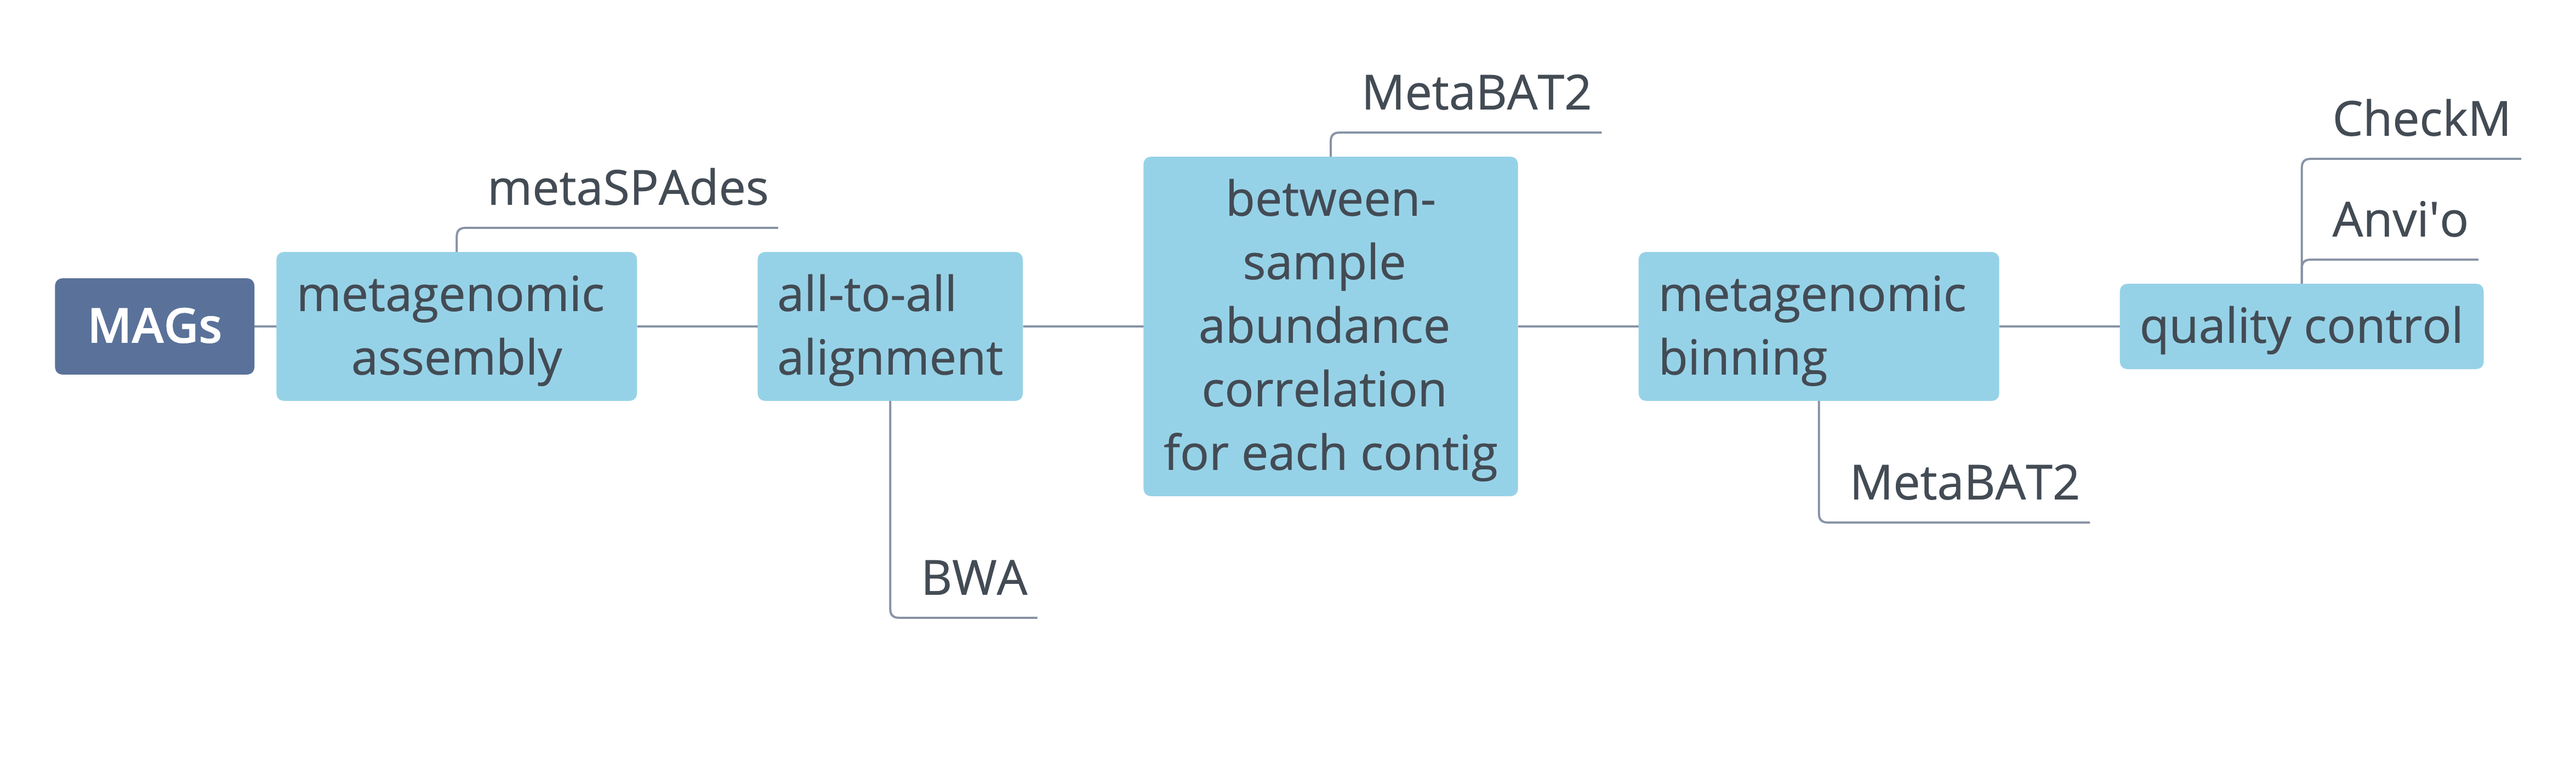
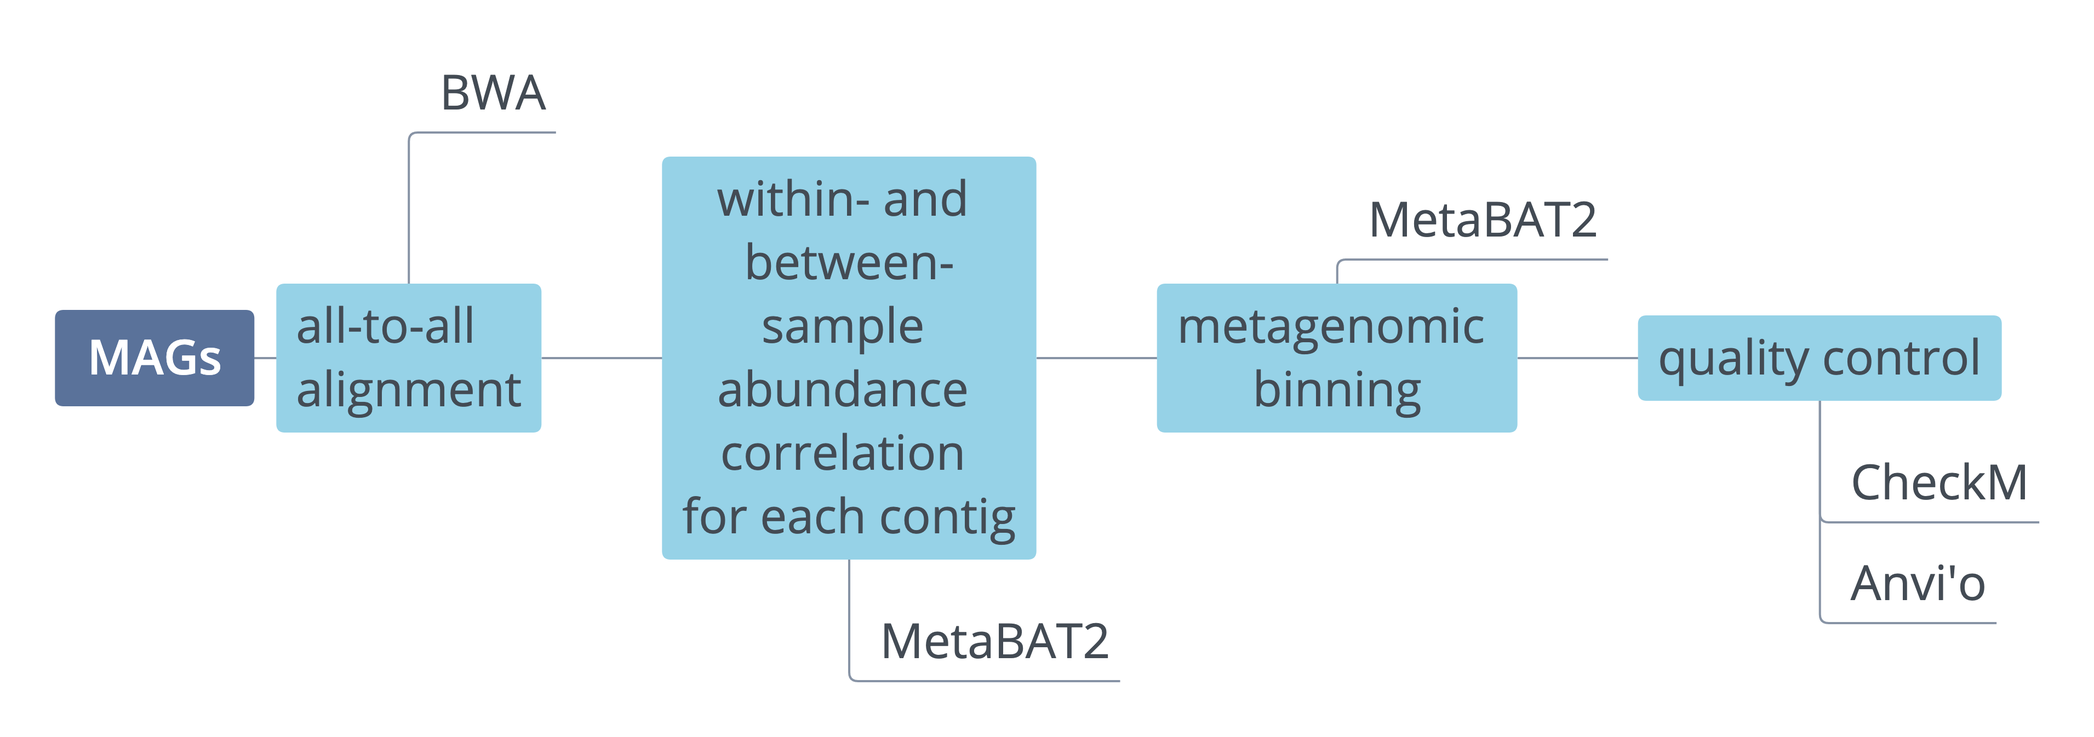
reorganizing metagenomic section

diff --git a/docs/assembly/metagenomic_workflows.rst b/docs/assembly/metagenomic_workflows.rst
@@ -2,34 +2,18 @@
 Metagenome Assembly
 ====================
 
-Technical advances in sequencing technologies in recent decades have allowed detailed investigation of complex microbial communities without the need for cultivation, which has proved to be challenging for many communities. Sequencing of microbial DNA extracted directly from enviromental or host-associated samples have provided key information on microbial community composition. These studies have also allowed gene-level characterization of microbiomes, as the first step to understanding the communities functional potential. Furthermore, algorithmic improvements as well as increased availability of computational resources make it now possible to reconstruct whole genomes from metagenomic samples (metagenome-assembled genomes, MAGs). Methods for microbial community composition are discussed in :doc:`../profiling/metagenomes`. Here we describe building :ref:`Gene Catalogs` and :ref:`MAGs` from metagenomic data.
+Technical advances in sequencing technologies in recent decades have allowed detailed investigation of complex microbial communities without the need for cultivation, which has proved to be challenging for many communities. Sequencing of microbial DNA extracted directly from enviromental or host-associated samples have provided key information on microbial community composition. These studies have also allowed gene-level characterization of microbiomes, as the first step to understanding the communities functional potential. Furthermore, algorithmic improvements as well as increased availability of computational resources make it now possible to reconstruct whole genomes from metagenomic samples (metagenome-assembled genomes, MAGs). Methods for microbial community composition are discussed in :doc:`../profiling/metagenomes`. Here we describe building :ref:`Metagenomic Assembly`, as well as building :ref:`Gene Catalogs` and :ref:`MAGs` from metagenomic data.
+
+--------------------
+Metagenomic Assembly
+--------------------
+
+.. image:: ../images/Metagenomic_Assembly_Overview.png
 
 
+1. **Preprocessing**. Before proceeding the the assembly, it is important to preprocess the raw sequencing data. Standard preprocessing protocols are described in :doc:`../preprocessing/preprocessing`. In addition to standard quality control and adapter trimming, we also suggest normalization with bbnorm.sh and merging (also add link in preprocessing)
 
---------------
-Gene Catalogs
---------------
-
-Gene catalog generation and profiling (i.e. gene abundance estimation) can provide important insights into the community's structure, diversity and functional potential. This analysis could also identify relationships between genetic composition and environmental factors, as well as disease associations.
-
-.. note:: Integrated catologs of reference genes have been generated for many ecosystems (<add link to ocean>, <add link to human gut>), and might be a good starting point for the analysis.
-
-
-Preprocessing
-^^^^^^^^^^^^^
-
-1. Before proceeding the the assembly, it is important to preprocess the raw sequencing data. Standard preprocessing protocols are described in :doc:`../preprocessing/preprocessing`
-2. In addition to standard quality control and adapter trimming, we also suggest normalization with bbnorm.sh and merging (also add link in preprocessing)
-
-Creation
-^^^^^^^^
-
-This protocol will allow you to create a denovo gene catalog from your metagenomic samples.
-
-.. image:: ../images/Building-gene-catalog.png
-
-
-3. Following data preprocessing, we use clean reads to perform a metagenomic assembly using **metaSPAdes**. metaSPAdes is part of SPAdes_ assembly toolkit. assembly. ,
+2. **Metagenomic Assembly**. Following data preprocessing, we use clean reads to perform a metagenomic assembly using **metaSPAdes**. metaSPAdes is part of SPAdes_ assembly toolkit. assembly. Following the assembly, we generate some assembly statistics using **assembly-stats**, and filter out contigs that are < 1 kbp in length.
 
 .. _SPAdes: https://github.com/ablab/spades
 
@@ -46,10 +30,26 @@ This protocol will allow you to create a denovo gene catalog from your metagenom
     You can use multiple threads (16-32) to speed up the assembly
 
 
-4. Following the assembly, we generate some assembly statistics using **assembly-stats**, and filter out contigs that are < 1 kbp in length.
+3. The metagenomic contigs generated in step 2 can now be used to build and/or profile :ref:`Gene Catalogs` or to construct :ref:`MAGs`.
+
+--------------
+Gene Catalogs
+--------------
+
+Gene catalog generation and profiling (i.e. gene abundance estimation) can provide important insights into the community's structure, diversity and functional potential. This analysis could also identify relationships between genetic composition and environmental factors, as well as disease associations.
+
+.. note:: Integrated catologs of reference genes have been generated for many ecosystems (<add link to ocean>, <add link to human gut>), and might be a good starting point for the analysis.
 
 
-5. Gene calling. We use **prodigal** to extract protein-coding genes from metagenomic assemblies (usually use **contigs** as input). Prodigal has different gene prediction modes with single genome mode as default. To run prodigal on metagenomic mode we add ``-p meta`` option. This will produce a fasta file with amino acid sequences (.faa), nucleotide sequences (.fna), as well as an annotation file (.gff)
+Creation
+^^^^^^^^
+
+This protocol will allow you to create a denovo gene catalog from your metagenomic samples.
+
+.. image:: ../images/Building-gene-catalog.png
+
+
+1. **Gene calling**. We use **prodigal** to extract protein-coding genes from metagenomic assemblies (usually use **contigs** as input). Prodigal has different gene prediction modes with single genome mode as default. To run prodigal on metagenomic mode we add ``-p meta`` option. This will produce a fasta file with amino acid sequences (.faa), nucleotide sequences (.fna), as well as an annotation file (.gff)
 
     **Example command**:
 
@@ -57,7 +57,7 @@ This protocol will allow you to create a denovo gene catalog from your metagenom
 
         zcat {in.fa.gz} | prodigal -a {out.faa} -d {out.fna} -f gff -o {out.gff} -c -q -p meta
 
-6. Gene de-replication. The next step is to remove duplicated sequences from the catalog. (Aggregation across samples?) Called genes are dereplicated using **BBTools Dedupe** and **CD-HIT**. Some additional step?
+2. **Gene de-replication**. The next step is to remove duplicated sequences from the catalog. (Aggregation across samples?) Called genes are dereplicated using **BBTools Dedupe** and **CD-HIT**. Some additional step?
 
     **Example command**:
 
@@ -74,9 +74,9 @@ Profiling
 
 .. image:: ../images/Gene-Catalog-Profiling.png
 
-7. Read alignment.
-8. Filtering the alignment files.
-9. Counting gene abundance for each sample.
+1. **Read alignment**.
+2. **Filtering the alignment files**.
+3. **Counting gene abundance**.
 
 
 -----
@@ -90,12 +90,7 @@ The Holy Grail of metagenomics is to be able to assemble individual microbial ge
 
 The first steps (Steps 1 through 3) are the same for MAGs as for :ref:`Gene Catalogs` workflow. This workflow starts with size-filtered metaSPAdes assembled contigs.
 
-All-to-all Alignment
-^^^^^^^^^^^^^^^^^^^^
-
-**Purpose**:
-
-4. In this step, quality controlled for each of the metagenomic samples is mapped to each of the metagenomic assemblies using BWA. Map reads from all samples against scaffolds in each other sample. Here we use -a to allow mapping to secondary sites.
+1. **All-to-all Alignment**. In this step, quality controlled for each of the metagenomic samples is mapped to each of the metagenomic assemblies using BWA. Map reads from all samples against scaffolds in each other sample. Here we use -a to allow mapping to secondary sites.
 
     **Example Command**:
 
@@ -107,7 +102,7 @@ All-to-all Alignment
 
     **Computational Resources**: !
 
-5. The generated alignment files are then filtered to only include alingments that are at least 45 nucletides long, with an identity of >= 97 and covering 80 of the read sequence. The alignment filtering was done using ... Other alternatives?
+The generated alignment files are then filtered to only include alignments that are at least 45 nucleotides long, with an identity of >= 97 and covering 80 of the read sequence. The alignment filtering was done using ... Other alternatives?
 
     **Example Command**:
 
@@ -115,28 +110,20 @@ All-to-all Alignment
 
         sushicounter
 
-Metagenomic Binning
-^^^^^^^^^^^^^^^^^^^
-
-**Purpose:**
-
-6. Within- and between-sample abundance correlation for each scaffold.
+2. **Within- and between-sample abundance correlation for each contig**.
 
     **Example Command**:
 
     .. code-block:: console
 
         metaBAT2
-
-
 
 .. note::
 
     How many samples do I need to benefit?
     Strictly speaking need at least 3, with as few as 20 starting to see improvement in the assemblies
 
-
-7. Metagenomic Binning
+3. **Metagenomic Binning**
 
     **Example Command**:
 
@@ -145,14 +132,13 @@ Metagenomic Binning
         metaBAT2
 
 
-Quality Control
-^^^^^^^^^^^^^^^
-
-8. Quality checks: CheckM adn Anvi'o
+4. **Quality Control**. Quality checks: CheckM adn Anvi'o
 
     Quality Metrics
 
-9. Taxonomic/Functional annotations -> page for that
+
+
+Taxonomic/Functional annotations -> page for that
 
 
 
